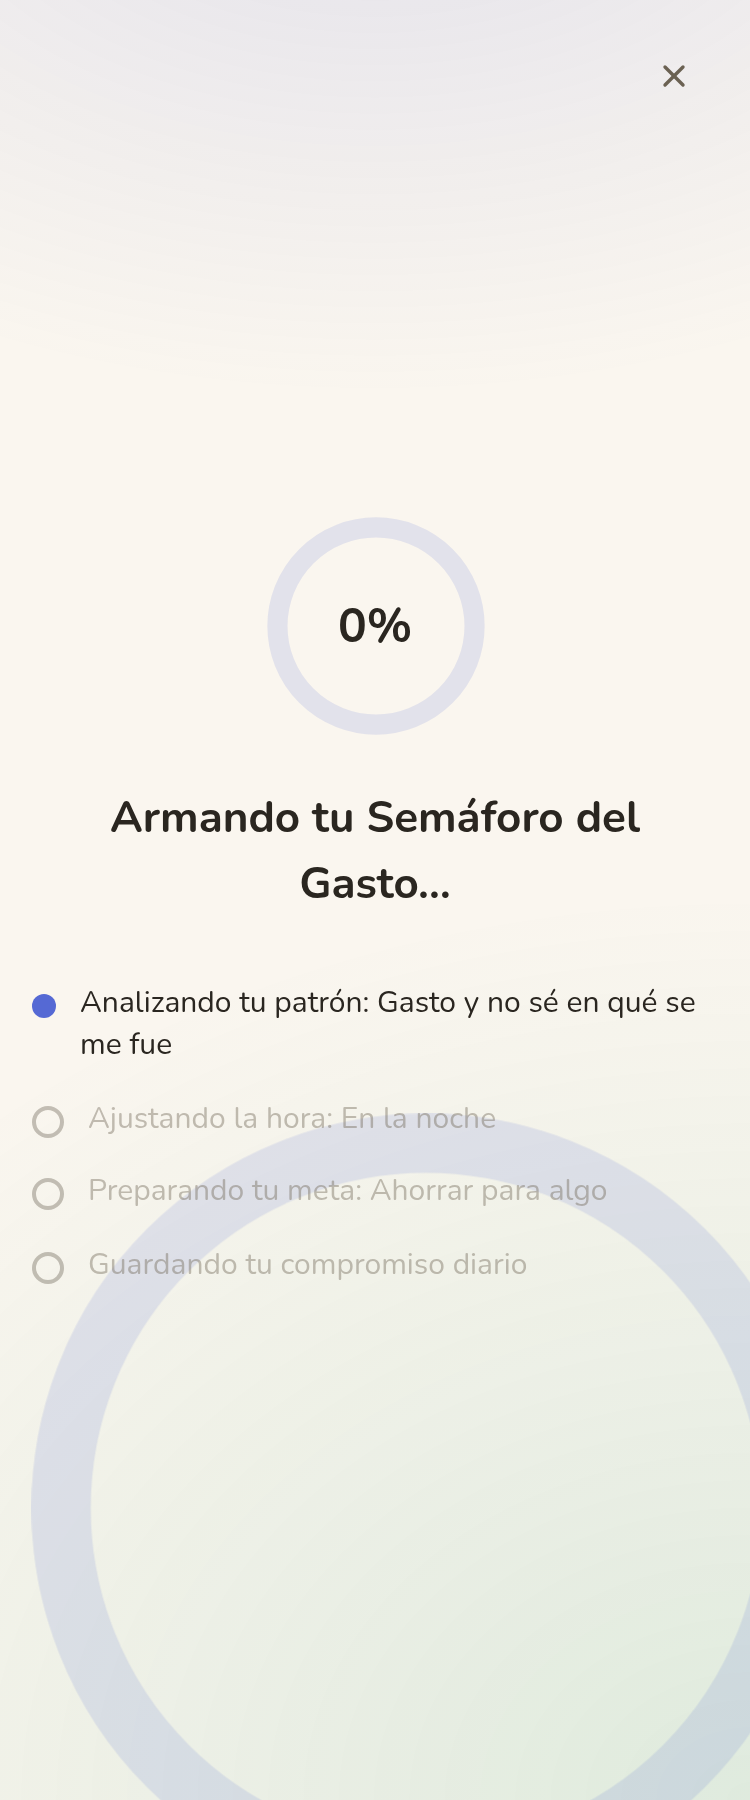
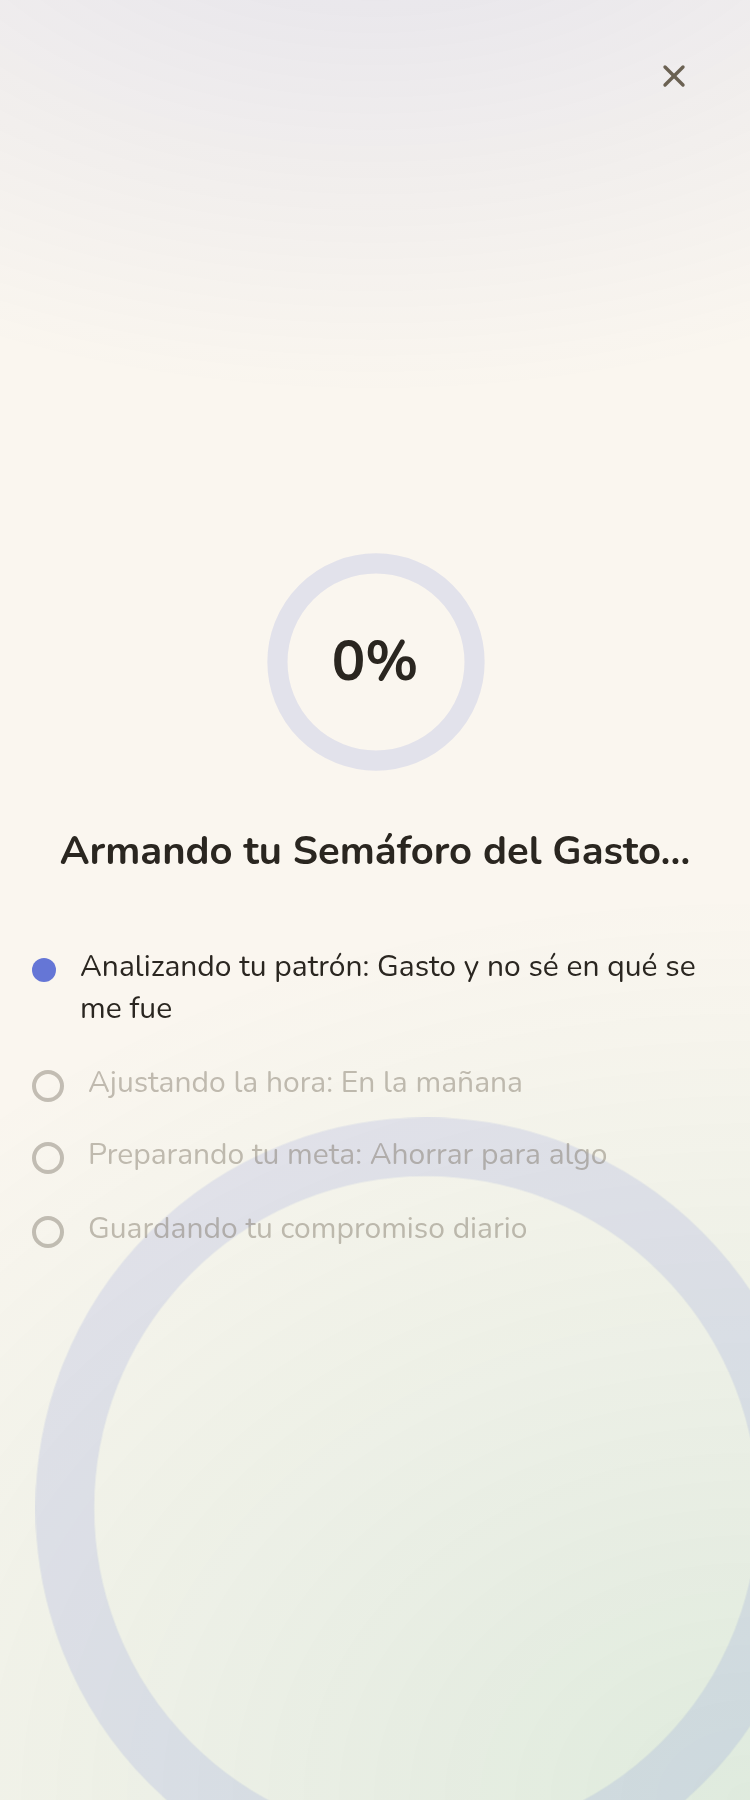
fix: accesibilidad de plan y consistencia de aria-label/tamaños en paywall
- El botón X tenía aria-label distinto entre fases ("Cerrar" en la pantalla
  de planes, "Salir" en la de carga) para el mismo control/handler/posición
  — unificado a "Cerrar".
- Los botones de plan Anual/Mensual no exponían su estado de selección a
  un lector de pantalla (solo visual, vía fondo/sombra) — agregado
  role="radio" + aria-checked, envueltos en role="radiogroup".
- Card Mensual con border sólido plano mientras Anual usa el hairline
  degradé del kit — mismo componente <Hairline> en ambas ahora (solo
  cambia `emphasis` según selección).
- LoadingPlan: el contador de porcentaje (24px) y el título (22px) no
  encajaban en ninguna banda de la escala de 4 niveles ya aplicada en el
  resto del paywall — subidos a 28px/20px.
- ConfirmSalir: el mensaje quedaba en 14px, entre las bandas body/label —
  subido a 15px (body).

Claude-Session: https://claude.ai/code/session_013BYtLeMwZuWh58hVzwvyD5

diff --git a/app/paywall/page.tsx b/app/paywall/page.tsx
@@ -185,12 +185,16 @@ export default function Paywall() {
 
           {/* Cards de plan */}
           <Bloque indice={2} reduce={reduce}>
-            <div className="flex flex-col gap-3">
+            <div role="radiogroup" aria-label="Elige tu plan" className="flex flex-col gap-3">
               {/* Hairline degradé (gate binario de conversión, 55): el plan
-                  recomendado es EL elemento de la vista que "esto importa". */}
+                  recomendado es EL elemento de la vista que "esto importa".
+                  Mismo componente en los 2 planes (antes Mensual usaba un
+                  border plano distinto) — solo cambia `emphasis`. */}
               <Hairline emphasis={plan === 'anual'} className="relative">
                 <motion.button
                   type="button"
+                  role="radio"
+                  aria-checked={plan === 'anual'}
                   whileTap={{ scale: 0.98 }}
                   onClick={() => setPlan('anual')}
                   className={`w-full rounded-[var(--radius-card)] p-5 text-left transition-colors [touch-action:manipulation] ${
@@ -214,24 +218,28 @@ export default function Paywall() {
                 </motion.button>
               </Hairline>
 
-              <motion.button
-                type="button"
-                whileTap={{ scale: 0.98 }}
-                onClick={() => setPlan('mensual')}
-                className={`rounded-[var(--radius-card)] border p-5 text-left transition-colors [touch-action:manipulation] ${
-                  plan === 'mensual'
-                    ? 'border-2 border-[var(--accent)] bg-[color-mix(in_oklab,var(--accent)_6%,transparent)] shadow-[var(--shadow-2)]'
-                    : 'border-[color-mix(in_oklab,var(--text-tertiary)_25%,transparent)] bg-[var(--surface)] shadow-[var(--shadow-1)]'
-                }`}
-              >
-                <div className="flex items-center justify-between gap-3">
-                  <span className="text-[13px] font-semibold text-[var(--text-secondary)]">{PLAN_MENSUAL.nombre}</span>
-                  <span className="text-[20px] font-bold tabular-nums text-[var(--text-primary)] [font-family:var(--font-display)]">
-                    {PLAN_MENSUAL.precioMes}
-                    <span className="text-[13px] font-normal text-[var(--text-secondary)]">/mes</span>
-                  </span>
-                </div>
-              </motion.button>
+              <Hairline emphasis={plan === 'mensual'}>
+                <motion.button
+                  type="button"
+                  role="radio"
+                  aria-checked={plan === 'mensual'}
+                  whileTap={{ scale: 0.98 }}
+                  onClick={() => setPlan('mensual')}
+                  className={`w-full rounded-[var(--radius-card)] p-5 text-left transition-colors [touch-action:manipulation] ${
+                    plan === 'mensual'
+                      ? 'bg-[color-mix(in_oklab,var(--accent)_6%,transparent)] shadow-[var(--shadow-2)]'
+                      : 'bg-[var(--surface)] shadow-[var(--shadow-1)]'
+                  }`}
+                >
+                  <div className="flex items-center justify-between gap-3">
+                    <span className="text-[13px] font-semibold text-[var(--text-secondary)]">{PLAN_MENSUAL.nombre}</span>
+                    <span className="text-[20px] font-bold tabular-nums text-[var(--text-primary)] [font-family:var(--font-display)]">
+                      {PLAN_MENSUAL.precioMes}
+                      <span className="text-[13px] font-normal text-[var(--text-secondary)]">/mes</span>
+                    </span>
+                  </div>
+                </motion.button>
+              </Hairline>
             </div>
           </Bloque>
 

diff --git a/components/funnel/LoadingPlan.tsx b/components/funnel/LoadingPlan.tsx
@@ -48,7 +48,7 @@ export function LoadingPlan({
         <button
           type="button"
           onClick={onClose}
-          aria-label="Salir"
+          aria-label="Cerrar"
           className="absolute right-4 top-4 flex size-11 items-center justify-center rounded-full text-[var(--text-secondary)] [touch-action:manipulation]"
         >
           <X size={18} strokeWidth={2.25} aria-hidden="true" />
@@ -71,12 +71,12 @@ export function LoadingPlan({
             transition={{ duration: reduce ? 0 : 0.5, ease: [0.16, 1, 0.3, 1] }}
           />
         </svg>
-        <span className="text-[24px] font-bold tabular-nums text-[var(--text-primary)] [font-family:var(--font-display)]">
+        <span className="text-[28px] font-bold tabular-nums text-[var(--text-primary)] [font-family:var(--font-display)]">
           {porcentaje}%
         </span>
       </div>
 
-      <h1 className="mt-6 text-[22px] font-bold text-[var(--text-primary)] [font-family:var(--font-display)]">
+      <h1 className="mt-6 text-[20px] font-bold text-[var(--text-primary)] [font-family:var(--font-display)]">
         Armando tu Semáforo del Gasto…
       </h1>
 

diff --git a/components/funnel/ui.tsx b/components/funnel/ui.tsx
@@ -422,7 +422,7 @@ export function ConfirmSalir({
             <h2 id="confirm-salir-titulo" className="text-[18px] font-bold text-[var(--text-primary)] [font-family:var(--font-display)]">
               ¿Salir?
             </h2>
-            <p className="mt-2 text-[14px] leading-snug text-[var(--text-secondary)]">{mensaje}</p>
+            <p className="mt-2 text-[15px] leading-snug text-[var(--text-secondary)]">{mensaje}</p>
             <div className="mt-5 flex flex-col gap-2">
               <FunnelButton ref={botonSeguirRef} onClick={onSeguir}>
                 Seguir aquí

diff --git a/docs/revisiones/paywall-veredicto.md b/docs/revisiones/paywall-veredicto.md
@@ -1,46 +1,57 @@
 # VEREDICTO revisor-visual — paywall
 Fecha: 2026-09-17 00:00
-Screenshot: docs/revisiones/paywall-375.png
-Usabilidad: 33/40
-Craft: 18/20
+Screenshot: docs/revisiones/paywall-375.png (+ docs/revisiones/paywall-cargando-375.png, fase "cargando")
+Usabilidad: 31/40
+Craft: 19/20
 Copy (si vende): 19/20
 Fidelidad (si hubo referencia): N-A
 Veredicto: NO LISTA
 
-Top defectos:
-1. [Header — el botón de salir (X) cambia de lado entre "cargando" y "listo", en la misma sesión de <5s] `components/funnel/LoadingPlan.tsx` L46-56 (X en `absolute right-4 top-4`, esquina superior DERECHA) vs `app/paywall/page.tsx` L137-149 (X en la columna IZQUIERDA del header, logo centrado) → un usuario que mira la esquina superior mientras carga y luego llega al paywall ve el mismo control saltar de lado. Fix: fijar el X siempre al mismo lado (recomendado: derecha, como en `FunnelHeader` del resto del onboarding) en las 3 fases del funnel (onboarding / cargando / listo).
-2. [Escala tipográfica — 8 tamaños de fuente en una sola pantalla, contra la escala de 4 que la propia FICHA-ARTE.md declara] `app/paywall/page.tsx` usa 11/12/13/14/15/17/20/28px (líneas 153,157,161,174,198,202-205,208,209,224-227,251,252,264,269,292); FICHA-ARTE.md línea 28 fija "display 34px / title 19px / body 15px / label 12px" (4 niveles) y DESIGN-CORE exige máx. 3 tamaños por pantalla. Fix: colapsar 13/14/15px en un solo "body" (15px) y 17/20/28px en máx. dos niveles de título (19-20px y el héroe).
-3. [Modal `ConfirmSalir` — foco inicial correcto, pero sin trap de foco] `components/funnel/ui.tsx` L366-404 → el `useEffect` mueve el foco a "Seguir aquí" al abrir (bien) y Escape cierra (bien), pero nada impide que Tab saque el foco hacia el contenido de fondo (no hay `inert` ni `aria-hidden` en el resto del árbol mientras `abierto=true`) — un `role="dialog" aria-modal="true"` sin aislamiento real de foco es media implementación. Fix: envolver el contenido detrás en `inert` mientras el modal está abierto, o ciclar Tab manualmente entre los 2 botones del modal.
-4. [Header propio de la fase "listo" no reutiliza `FunnelHeader" — evaluado, veredicto: aceptable EN SU LAYOUT, pero agrava el defecto #1] `app/paywall/page.tsx` L137-149 vs `components/funnel/ui.tsx` L16-75 → tiene sentido no forzar la barra de progreso (no aplica en el paywall) y centrar el logo aquí; el problema real no es el componente distinto, es la posición inconsistente del X (ver #1). No requiere unificar el componente completo — con corregir el lado del X alcanza.
-5. [Acento usado en ~8 elementos distintos de la misma pantalla] `app/paywall/page.tsx`: headline resaltado, checkmarks (`CheckCustom`), badge "5 MESES GRATIS", borde+fondo del plan seleccionado, "Ahorras ~40%", CTA, puntos+línea de la timeline, anillo de fondo decorativo → FICHA-ARTE.md línea 25 limita el acento a "marca, anillo, CTA y selección". No es un error duro (todos son datos de conversión legítimos en una pantalla que vende) y no baja el gate; se anota como refinamiento, no como defecto bloqueante.
+## Verificación de los 3 defectos de la ronda 10 (línea por línea, código real)
 
-## Desglose de verificación (10ª ronda — fixes de la 9ª confirmados línea por línea)
-- Fix 1 (titular partido): CONFIRMADO. `app/paywall/page.tsx` L154, `whitespace-nowrap` en el span "Semáforo del Gasto" — en el screenshot la frase de marca queda en una sola línea.
-- Fix 2 (ConfirmSalir accesible): CONFIRMADO. `components/funnel/ui.tsx` L356-364 (ref + `useEffect` que hace foco en "Seguir aquí" al abrir), L362-364 (`onKeyDown` captura Escape → `onSeguir`), L378-380 (`role="dialog"`, `aria-modal="true"`, `aria-labelledby="confirm-salir-titulo"` apuntando al `<h2 id="confirm-salir-titulo">` de L387). Funciona, pero ver defecto #3 (falta trap de foco).
-- Fix 3 (`aria-live` en errorAvance): CONFIRMADO. `app/paywall/page.tsx` L292, `role="status" aria-live="polite"` en el párrafo de error de timeout.
-- Puntos 4-5 de la ronda anterior (consolidar tamaños de fuente, reutilizar `FunnelHeader`): siguen sin tocar, tal como se declaró. Verificado: el primero SIGUE siendo un defecto de peso, verificable contra la propia ficha (ver defecto #2). El segundo, evaluado en contexto, es aceptable NO tocarlo (ver defecto #4) — el fix real y barato ahí es solo alinear el X, no fusionar componentes.
+1. X saltaba de lado — RESUELTO. `app/paywall/page.tsx` líneas 141-153: fase "listo" ahora es spacer(size-11) → RespiraMark → botón X, X queda a la derecha. `components/funnel/LoadingPlan.tsx` líneas 47-56: X con `absolute right-4 top-4`, también a la derecha. Confirmado en ambos screenshots: X arriba-derecha en "cargando" y en "listo".
 
-## Gate de carga cognitiva
-Pasa: listas ≤4-5 ítems (3 beneficios, 3 nodos de timeline, 2 planes), 1 acción primaria + 2 secundarias (X, "Ahora no"), sin campos de formulario, texto por bloque ≤4 líneas, "qué sigue" obvio (CTA fijo al fondo), cero elementos interactivos mudos. Sin fallas críticas de sobrecarga.
+2. 8 tamaños de fuente vs. escala de 4 niveles — PARCIALMENTE RESUELTO. En `page.tsx` los 3 elementos señalados quedaron consolidados: "Hecho con tus N respuestas" → `text-[15px]` (línea 166, nivel body), nombre del plan y "Ahora no" → `text-[13px]` (líneas 206, 228, 268, nivel label), badge "5 MESES GRATIS" → `text-[12px]` (línea 202, piso del nivel label). Las 5 tallas resultantes en la fase "listo" (28/20/15/13/12) sí caben en las bandas de la fórmula de 4 niveles del sistema (display 28-40 / title 17-20 / body 15-16 / label 12-13). PERO el resto del mismo flujo de paywall no se tocó y queda fuera de esas bandas: `LoadingPlan.tsx` línea 74 (`text-[24px]`, el contador %) y línea 79 (`text-[22px]`, el h1 "Armando tu Semáforo…") no encajan en ninguna banda; `components/funnel/ui.tsx` línea 425 (mensaje del modal ConfirmSalir, `text-[14px]`) tampoco encaja. Es el mismo tipo de problema, en archivos distintos a los que tocó el fix.
 
-## CTA héroe vivo (verificado en código)
-- Contraste ≥3:1: CTA `bg-[var(--accent)]` con texto `text-[var(--bg)]` (crema sobre azul-lila) — pasa a ojo y por tokens de la ficha.
-- Hover/tap definido: `whileTap={{ scale: 0.97 }}` + `hover:bg-color-mix(...)` en `FunnelButton` (`components/funnel/ui.tsx` L96,101).
-- Nunca disabled por defecto: `disabled={avanzando}` — solo true durante el request, arranca habilitado (`app/paywall/page.tsx` L288).
-- Área táctil: `h-[52px] w-full` (`components/funnel/ui.tsx` L104) — pasa el mínimo de 48px.
-Los 4 checks pasan — el CTA no es un defecto en esta ronda.
+3. ConfirmSalir sin trap de foco — RESUELTO. `components/funnel/ui.tsx` función `alPresionarTecla` (líneas 386-399): captura `Tab`, hace `preventDefault()` y cicla el foco entre `botonSeguirRef` y `botonSalirRef` (los 2 únicos botones del modal); `Escape` cierra sin perder progreso. Foco inicial en el botón seguro ("Seguir aquí", línea 383). Correcto: con solo 2 elementos focosables, ciclar sin distinguir Shift+Tab es funcionalmente equivalente a un trap real.
 
-## Detalle usabilidad (0-4 cada uno)
-h1:3 h2:4 h3:3 h4:2 h5:3 h6:4 h7:3 h8:3 h9:4 h10:4 → 33/40
-- h4 (consistencia) es el más bajo: el salto de lado del botón X entre "cargando" y "listo" (defecto #1) es visible sin buscarlo, en segundos, dentro del mismo flujo — no es refinamiento subjetivo, es una regresión de layout concreta y reproducible en el screenshot.
-- h3 (control y libertad) sube de ronda anterior gracias a los fixes de accesibilidad del modal, pero se queda en 3 por la falta de trap de foco (defecto #3, solo verificable en código).
+## Defectos NUEVOS encontrados en esta ronda (no reportados antes, verificados en código)
 
-## Detalle craft (0-4 cada eje)
-jerarquía:3 (8 tamaños de fuente vs. máx. 3 del sistema — defecto #2, visible al entrecerrar los ojos si se compara contra la ficha, aunque la lectura general sigue siendo ordenada) · profundidad:4 (mesh + 3 niveles de superficie consistentes con el resto del funnel) · identidad:4 (anillo de respiración, Nunito, paleta cálida — no coincide con ninguna paleta vetada del test anti-clon) · movimiento:4 (stagger por bloque, anillo de carga que se dibuja, tap <150ms, modal con fade+scale, reduced-motion cubierto en los 4 componentes revisados) · encaje:4 (titular ya no se parte mal — fix de esta ronda —, radios consistentes vía tokens, padding simétrico) → 19/20
+- El propio botón X que se acaba de unificar visualmente quedó con **aria-label distinto entre fases**: "Cerrar" en `page.tsx` línea 148 vs "Salir" en `LoadingPlan.tsx` línea 51 — mismo botón, mismo handler (`salirConfirmando`), misma posición, mismo resultado, pero un lector de pantalla anuncia dos acciones distintas para lo mismo.
+- Los botones de plan (Anual/Mensual, `page.tsx` líneas 192-234) no tienen `aria-pressed`/`role="radio"`+`aria-checked` — el estado de selección solo existe visualmente (fondo/sombra/borde), no es programático. Un usuario de lector de pantalla no puede saber cuál plan está seleccionado.
 
-## Detalle copy (0-4 cada eje) — sin cambios respecto a la ronda 9, no se tocó copy esta ronda
-idea:4 (mecanismo "Semáforo del Gasto" nombrado en headline/beneficios/loading) · especificidad:4 (precios exactos, timeline con fechas reales y monto de cobro, "sin conectar tu banco" responde la objeción #2 de FICHA-AVATAR.md) · emoción:4 (subtítulo cita casi textual el dolor #1 de la ficha: «gasto y no sé en qué se me fue») · oferta:3 (clara pero "Garantía de los Primeros 14 Días Sin Culpa" es una redacción un poco forzada como nombre propio) · acción:4 (un solo tipo de acción repetida, "Ahora no" no compite) → 19/20
-Sub-checks: message-match N/A (no hay dato del creativo de origen) · garantía nombrada: PASA (nombre + plazo, cerca del CTA, L274).
+## Desglose usabilidad /40
+h1 Visibilidad del sistema: 2 — feedback visual excelente (progreso animado, spinner+"Un momento…", guard anti doble-tap, timeout a los 7s con aria-live), pero el estado de selección de plan es invisible para lectores de pantalla (ver defecto nuevo arriba) — falla real de visibilidad de estado para ese segmento de usuarios, no una sutileza.
+h2 Lenguaje del usuario: 4 — cero jerga, copy 100% en español natural y personalizado ("Para que no vuelvas a decir «gasto y no sé en qué se me fue»").
+h3 Control y libertad: 4 — X en ambas fases, modal ConfirmSalir con mensaje preciso (no miente sobre pérdida de datos), Escape para cancelar, trap de foco verificado en código.
+h4 Consistencia y estándares: 3 — X ya unificado en posición, pero aria-label inconsistente del mismo botón (ver arriba) y tamaños de fuente sin consolidar fuera de `page.tsx` (LoadingPlan, ConfirmSalir).
+h5 Prevención de errores: 3 — CTA nunca disabled por defecto, guard anti doble-submit, default de plan sensato (Anual preseleccionado).
+h6 Reconocer vs. recordar: 3 — toda la info (precios, fechas, plan) visible, nada que recordar de otra pantalla.
+h7 Flexibilidad y eficiencia: 3 — sin atajos de teclado propios más allá del tab/Enter nativo; el único "default inteligente" es el plan Anual preseleccionado.
+h8 Estético y minimalista: 3 — 1 CTA primario fijo siempre alcanzable, "Ahora no" subordinado, secciones con contenido real (sin relleno); las 2 cards de plan usan técnicas de borde distintas (hairline degradé vs. borde sólido), un detalle que un ojo entrenado nota.
+h9 Errores claros con solución: 3 — el único error mostrado (timeout de 7s) explica qué pasó y qué hacer, en lenguaje simple.
+h10 Ayuda contextual: 3 — value stack, timeline del trial con fechas reales, garantía nombrada; cero pantalla muda.
 
-## Conclusión
-Craft (19/20) y copy (19/20) siguen pasando con margen. Usabilidad se mantiene en la banda 32-33/40 por CUARTA ronda consecutiva, y esta vez los defectos que la sostienen por debajo del gate NO son refinamiento subjetivo: el salto de lado del botón de salir entre dos pantallas consecutivas (defecto #1) es un bug de layout concreto, reproducible y visible en los propios screenshots entregados, y la escala de 8 tamaños de fuente (defecto #2) es una violación verificable contra la propia FICHA-ARTE.md del proyecto, no una opinión del revisor. Ambos son arreglables en minutos (alinear un `X`, colapsar 3-4 clases de tamaño). Recomendación: corregir #1 y #2 antes de la siguiente ronda — con eso, 33/40 sube razonablemente por encima del gate de 36. El punto #3 (focus trap) es más fino pero también objetivo y barato de cerrar. El punto #5 sí es zona de gusto y no bloquea.
+## Desglose craft /20
+Jerarquía: 3 — el squint-test pasa en cada fase por separado, pero la fórmula numérica de 4 niveles no se respeta de forma uniforme entre "cargando"/modal y "listo" (ver defecto de tamaños).
+Profundidad: 4 — FunnelFondo compartido (mesh + anillo), 3 niveles reales (bg/surface/surface-2 en el timeline).
+Identidad ownable: 4 — anillo de respiración, paleta crema+azul-lila+Nunito, no coincide con las paletas vetadas del test anti-clon.
+Movimiento: 4 — stagger de entrada por bloque, anillo de progreso que se dibuja, tap feedback en todos los botones, aparición suave del modal, reduced-motion cubierto en todos los componentes revisados.
+Encaje óptico: 4 — radio de card idéntico en todas las superficies, X ahora alineado consistentemente, badge y precios bien encajados.
+
+## Desglose copy /20 (trazado contra FICHA-AVATAR.md — estado: BORRADOR, no aprobada por el usuario)
+Idea única dominante: 4 — "Semáforo del Gasto" nombrado y sostenido en hero, loading y timeline.
+Especificidad y prueba: 3 — precios exactos y "~40%" de ahorro, sin adjetivos vacíos; sin prueba externa (testimonio/demo) más allá de la personalización por respuestas.
+Emoción/dolor real: 4 — "para que no vuelvas a decir «gasto y no sé en qué se me fue»" traza directo al dolor #1 ★ de FICHA-AVATAR.md.
+Claridad de oferta: 4 — stack de valor, timeline de cobro con fechas reales, garantía nombrada con plazo.
+Dirección a una acción: 4 — un solo tipo de CTA repetido, "Ahora no" no compite.
+Sub-checks: garantía nombrada con plazo cerca del CTA — CUMPLE ("Garantía de los Primeros 14 Días Sin Culpa"). Message-match: N/A (sin creativo de origen dado).
+
+⚠ Nota de proceso (no puntúa en la rúbrica de esta pantalla): FICHA-AVATAR.md indica explícitamente `Estado: BORRADOR` y `Aprobada por el usuario: NO` — el copy de este paywall se apoya en una ficha que el propio sistema aún no da por cerrada.
+
+## Top defectos (ordenados por impacto)
+1. [Botón X — app/paywall/page.tsx:148 vs components/funnel/LoadingPlan.tsx:51] Mismo botón/handler con aria-label distinto ("Cerrar" vs "Salir") entre fases → unificar a un solo texto en ambos archivos.
+2. [Selector de plan — app/paywall/page.tsx:192-234] Sin aria-pressed/role="radio"+aria-checked → un lector de pantalla no sabe qué plan está seleccionado → agregar el atributo de estado a ambos botones (o agruparlos en role="radiogroup").
+3. [Fase "cargando" — components/funnel/LoadingPlan.tsx:74 y 79] El contador "24%" y el título "22px" no encajan en ninguna banda de la fórmula de 4 niveles que la fase "listo" ya sigue → subir a 28px (display) y 20px (title).
+4. [Modal ConfirmSalir — components/funnel/ui.tsx:425] El mensaje a 14px cae entre las bandas body(15-16) y label(12-13) → subir a 15px.
+5. [Cards de plan — app/paywall/page.tsx:191-234] Anual usa hairline degradé y Mensual usa borde sólido simple — tratamiento visual distinto entre 2 ítems de la misma lista → unificar la técnica de borde.
